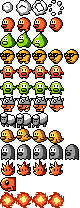
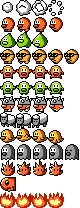
Fireballs

Changed region(s): [[0.0, 0.9231, 0.8, 1.0]]

diff --git a/src/enemy.js b/src/enemy.js
@@ -727,3 +727,143 @@ export class Bullet extends Enemy {
         this.kill(ev);
     }
 }
+
+
+export class VerticalFireball1 extends Enemy {
+
+    constructor(x, y) {
+
+        super(x, y);
+
+        this.startPos = this.pos.clone();
+
+        this.spr.setFrame(12, 0);
+
+        this.colbox.x = 8;
+        this.colbox.y = 8;
+
+        this.friction.y = 0.05;
+
+        this.speedSet = false;
+        this.harmful = true;
+        this.immortal = true;
+    }
+
+
+    checkCamera(cam) {
+
+        if (!this.speedSet) {
+
+            this.pos.y = cam.topCorner.y-12;
+        }
+    }
+
+
+    checkPlayer(o, ev) {
+
+        const DIST = 64;
+        const GRAVITY = 1.5;
+
+        if (!this.speedSet &&
+            Math.abs(o.pos.x - this.pos.x) < DIST) {
+
+            this.speed.y = GRAVITY;
+            this.target.y = GRAVITY;
+            this.speedSet = true;
+
+            ev.audio.playSample(ev.audio.samples.fireball, 0.70);
+        }
+
+    }
+
+
+    // Logic
+    updateLogic(ev) {  }
+
+
+    // Animate
+    animate(ev) {
+
+        this.spr.animate(this.spr.row, 0, 3, 5, ev.step);
+    }
+
+
+    floorEvent(ev) {
+
+        this.kill(ev);
+    }
+}
+
+
+export class VerticalFireball2 extends Enemy {
+
+    constructor(x, y) {
+
+        super(x, y);
+
+        this.startPos = this.pos.clone();
+
+        this.spr.setFrame(12, 4);
+
+        this.colbox.x = 8;
+        this.colbox.y = 8;
+
+        this.friction.y = 0.05;
+
+        this.speedSet = false;
+        this.harmful = true;
+        this.immortal = true;
+
+        this.flip = Flip.Vertical;
+    }
+
+
+    checkPlayer(o, ev) {
+
+        const DIST = 64;
+        const JUMP = -2.75;
+
+        if (!this.speedSet &&
+            Math.abs(o.pos.x - this.pos.x) < DIST) {
+
+            this.speed.y = JUMP;
+            this.speedSet = true;
+
+            ev.audio.playSample(ev.audio.samples.fireball, 0.70);
+        }
+
+    }
+
+
+    // Logic
+    updateLogic(ev) { 
+
+        const GRAVITY = 2.0;
+
+        if (!this.speedSet) return;
+
+        this.target.y = GRAVITY;
+    }
+
+
+    // Animate
+    animate(ev) {
+
+        if (!this.speedSet) return;
+
+        this.spr.animate(this.spr.row, 0, 3, 5, ev.step);
+
+        this.flip = this.speed.y < 0 ? Flip.Vertical : Flip.None;
+    }
+
+
+    floorEvent(ev) {
+
+        this.kill(ev);
+    }
+
+    ceilingEvent(ev) {
+
+        this.kill(ev);
+    }
+}

diff --git a/src/stage.js b/src/stage.js
@@ -7,7 +7,7 @@
 
 import { negMod, clamp } from "./core/util.js";
 import { Coin, Heart, LifeUp } from "./collectable.js";
-import { Walker, Slime, Dog, ImpVertical, ImpHorizontal, SpikeyWalker, Jumper, Bird, Ghost, Flame, Bullet } from "./enemy.js";
+import { Walker, Slime, Dog, ImpVertical, ImpHorizontal, SpikeyWalker, Jumper, Bird, Ghost, Flame, Bullet, VerticalFireball1, VerticalFireball2 } from "./enemy.js";
 import { Vector2 } from "./core/vector.js";
 import { Sprite } from "./core/sprite.js";
 import { newGameObject } from "./gameobject.js";
@@ -312,7 +312,7 @@ export class Stage {
                     objm.addFlag(x*16, y*16, false);
                     break;
 
-                // I'm starting to question the meaning of switch...
+                // TODO: Replace with 'if', please...
                 case 17:
                 case 18:
                 case 19:
@@ -324,11 +324,13 @@ export class Stage {
                 case 25:
                 case 26:
                 case 27:
+                case 28:
+                case 29:
                     objm.addEnemy( 
                         [Walker, Slime, Dog, 
                         ImpVertical, ImpHorizontal, SpikeyWalker,
-                        Jumper, Bird, Ghost, Flame, 
-                        Bullet] [t-17], 
+                        Jumper, Bird, Ghost, Flame, Bullet, 
+                        VerticalFireball1, VerticalFireball2] [t-17], 
                         x*16, y*16);
                     break;
 

diff --git a/src/gameobject.js b/src/gameobject.js
@@ -240,10 +240,12 @@ export class GameObject {
     // Is in camera
     checkIfInCamera(cam) {
 
-        let topx = this.pos.x+this.center.x - this.spr.width/2;
-        let topy = this.pos.y+this.center.y - this.spr.height/2;
-        let bottomx = topx + this.spr.width;
-        let bottomy = topy + this.spr.height;
+        const MARGIN = 8;
+
+        let topx = this.pos.x+this.center.x - this.spr.width/2 - MARGIN;
+        let topy = this.pos.y+this.center.y - this.spr.height/2 - MARGIN;
+        let bottomx = topx + this.spr.width + MARGIN*2;
+        let bottomy = topy + this.spr.height + MARGIN*2;
 
         this.inCamera = (bottomx >= cam.topCorner.x &&
             bottomy >= cam.topCorner.y &&
